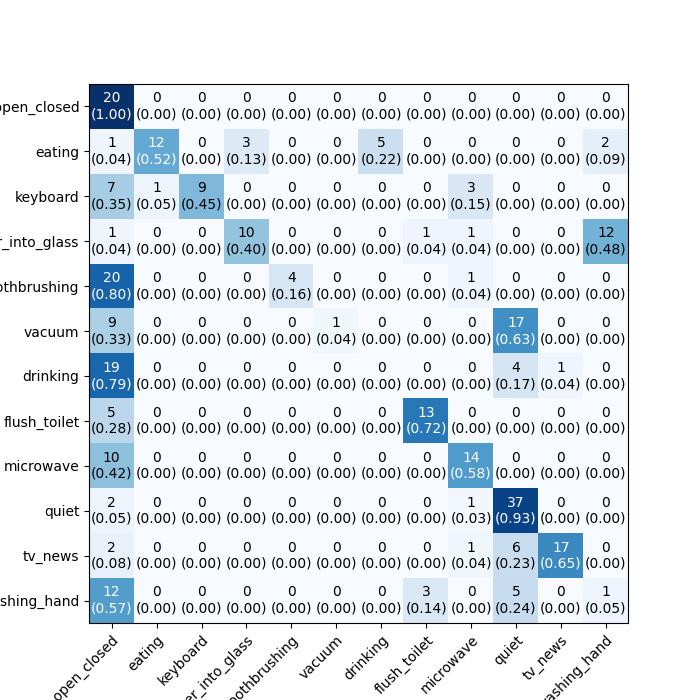
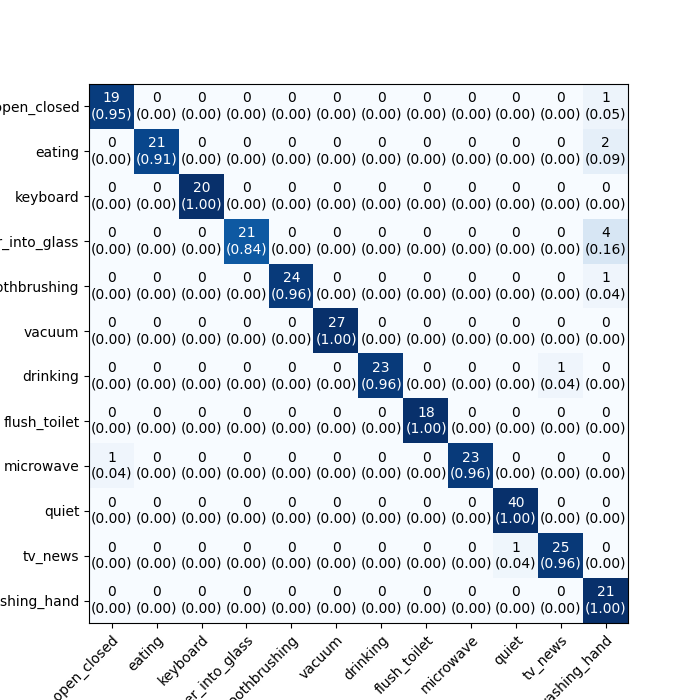
Quantization aware training

diff --git a/TinyML/room_sound/ascc_room_sound_activity_train_converter.py b/TinyML/room_sound/ascc_room_sound_activity_train_converter.py
@@ -1,0 +1,246 @@
+# -*- coding: utf-8 -*-
+"""
+@author: Fei Liang
+
+@Reference: github: https://github.com/JasonZhang156/Sound-Recognition-Tutorial
+
+tensorboard --logdir="./log/foldone_second"
+
+"""
+
+from keras.callbacks import TensorBoard, ModelCheckpoint, LearningRateScheduler
+import tensorflow as tf
+import keras.backend as K
+from keras import optimizers
+
+import esc10_input
+import numpy as np
+import models
+import os
+
+import matplotlib.pyplot as plt
+
+def plot_learningCurve(history, epochs):
+    # Plot training & validation accuracy values
+    plt.figure()
+    epoch_range = range(1, epochs+1)
+    plt.plot(epoch_range, history.history['accuracy'])
+    plt.plot(epoch_range, history.history['val_accuracy'])
+    plt.title('Model accuracy')
+    plt.ylabel('Accuracy')
+    plt.xlabel('Epoch')
+    plt.legend(['Train', 'Val'], loc='upper left')
+    plt.show()
+    plt.savefig("accuracy.png")
+
+    # Plot training & validation loss values
+    plt.figure()
+    plt.plot(epoch_range, history.history['loss'])
+    plt.plot(epoch_range, history.history['val_loss'])
+    plt.title('Model loss')
+    plt.ylabel('Loss')
+    plt.xlabel('Epoch')
+    plt.legend(['Train', 'Val'], loc='upper left')
+    plt.show()
+    plt.savefig("loss.png")
+
+
+def use_gpu():
+    """Configuration for GPU"""
+    # from keras.backend.tensorflow_backend import set_session
+    # from tf.compat.v1.keras.backend import set_session
+    # import tensorflow 
+    from tensorflow.compat.v1.keras.backend import set_session
+
+    os.environ['CUDA_VISIBLE_DEVICES'] = str(0)   # 使用第一台GPU
+    # config = tf.ConfigProto()
+    config = tf.compat.v1.ConfigProto()
+    # config.gpu_options.per_process_gpu_memory_fraction = 0.5  # GPU使用率为50%
+    config.gpu_options.allow_growth = True    # 允许容量增长
+    set_session(tf.compat.v1.InteractiveSession(config=config))
+
+
+def CNN_train(test_fold, feat):
+    """
+    Training CNN using extracted feature
+    :param test_fold: test fold of 5-fold cross validation
+    :param feat: which feature to use
+    """
+    # 学习率衰减策略，每20个epoch衰减一次，变为0.1倍。
+    def scheduler(epoch):
+        if epoch in [20, 40]:
+            lr = K.get_value(model.optimizer.lr)
+            K.set_value(model.optimizer.lr, lr * 0.1)
+            print("lr changed to {}".format(lr * 0.1))
+        return K.get_value(model.optimizer.lr)
+    
+    
+    # labels = ['door_open_closed', 'eating', 'keyboard', 'pouring_water_into_glass', 'vacuum', 'drinking', 'flush_toilet', 'quiet', 'tv_news', 'washing_hand']
+    labels = ['door_open_closed', 'eating', 'keyboard', 'pouring_water_into_glass', 'toothbrushing', 'vacuum', 'drinking', 'flush_toilet', 'microwave', 'quiet', 'tv_news', 'washing_hand']
+    num_class = 12
+
+
+    # 读取特征数据
+    # total sample:  2324
+    # train_feats: (1855, 64, 138)
+    # test_feat: (469, 64, 138)
+    # test_labes: (469,)
+    # train_features, train_labels, test_features, test_labels = esc10_input.get_data(test_fold, feat)
+    # ob_folder = '/home/ascc/LF_Workspace/Motion-Trigered-Activity/Sound-Recognition-Tutorial/data/ascc_activity_1second/feature/ascc_logmel_total.npz' # acc:0.9396
+    # ob_folder = '/home/ascc/LF_Workspace/Bayes_model/ADL_HMM_BAYES_V2/ADL_HMM_BAYES/room_sound/sound_dataset/ascc_activity_1second/feature/ascc_logmel_total.npz'
+    ob_folder = '/home/ascc/LF_Workspace/Bayes_model/Product_ADL/ADL_HMM_BAYES/room_sound/sound_dataset/ascc_activity_1second/feature/ascc_logmel_total.npz'
+    train_features, train_labels, test_features, test_labels = esc10_input.get_data_all(ob_folder, feat, number_class=num_class)
+
+    print('train_labels: ',train_labels.shape)
+
+    train_features_subset = train_features[0:int(train_features.shape[0]/5)]
+    train_labels_subset = train_labels[0:int(train_features.shape[0]/5)]
+
+    print("convert feature mode:", train_features_subset.shape)
+    print("convert lables mode:", train_labels_subset.shape)
+
+
+    # exit(0)
+    # # 一些超参的配置
+    # epoch = 70
+    # batch_size = 128
+    # input_shape = (64, 138, 1)
+
+    # # 构建CNN模型
+    # model = models.CNN(input_shape, num_class)
+
+    # # 回调函数
+    # reduce_lr = LearningRateScheduler(scheduler)   # 学习率衰减
+    # logs = TensorBoard(log_dir='./log/fold{}/'.format(test_fold))   # 保存模型训练日志
+    # checkpoint = ModelCheckpoint('./saved_model/cnn_{}_fold{}_best.h5'.format(feat, test_fold),  # 保存在验证集上性能最好的模型
+    #                              monitor='val_acc', verbose=1, save_best_only=True, mode='max', period=1)
+    # # 训练模型
+    # # model.fit(train_features, train_labels, batch_size=batch_size, nb_epoch=epoch, verbose=1, validation_split=0.1,
+    # #           callbacks=[checkpoint, reduce_lr, logs])
+    # history = model.fit(train_features, train_labels, batch_size=batch_size, epochs=epoch, verbose=1, validation_split=0.1,
+    #           callbacks=[checkpoint, reduce_lr, logs])
+
+    # plot_learningCurve(history, epoch)
+
+
+    # # confusion matrix
+    # from mlxtend.plotting import plot_confusion_matrix
+    # from sklearn.metrics import confusion_matrix
+
+    # # y_pred = model.predict_classes(X_test)
+
+    # # print('X_test:', X_test)
+
+    # predict_x=model.predict(test_features) 
+    # y_pred=np.argmax(predict_x,axis=1)
+    # print('y_pred len:', len(y_pred))
+    # print('y_pred:', y_pred)
+    # print('test_labels:', len(test_labels))
+
+    # print('test_labels:', test_labels)
+    # test_rounded_labels=np.argmax(test_labels, axis=1)
+    # print('test_rounded_labels:', test_rounded_labels)
+
+    # plt.figure()
+    # mat = confusion_matrix(test_rounded_labels, y_pred)
+    # cm = plot_confusion_matrix(conf_mat=mat, show_normed=True, figsize=(7,7))
+    
+    # # import seaborn as sns
+    # # ax = plt.subplot()
+    # # sns.set(font_scale=3.0) # Adjust to fit
+    # # sns.heatmap(cm, annot=True, ax=ax, cmap="Blues", fmt="g");  
+
+    # plt.show()
+    # plt.savefig("cm_sound.png")
+
+    # plt.figure()
+    # mat = confusion_matrix(test_rounded_labels, y_pred)
+    # cm = plot_confusion_matrix(conf_mat=mat, class_names=labels, show_normed=True, figsize=(7,7))
+    
+    # # import seaborn as sns
+    # # ax = plt.subplot()
+    # # sns.set(font_scale=3.0) # Adjust to fit
+    # # sns.heatmap(cm, annot=True, ax=ax, cmap="Blues", fmt="g");  
+
+    # plt.show()
+    # plt.savefig("cm_sound1.png")
+
+
+    # 保存模型
+    # model.save('./saved_model/cnn_{}_fold{}.h5'.format(feat, test_fold))
+    # MODEL_SAVED_PATH = 'sound-saved-model'
+    # # model.save_weights('model.h5')
+    # model.save(MODEL_SAVED_PATH)
+
+    # 输出训练好的模型在测试集上的表现
+    # score = model.evaluate(test_features, test_labels)
+    # print('Test score:', score[0])
+    # print('Test accuracy:', score[1])
+
+    ###############################################################################33
+    # Quantization aware training example
+    import tensorflow_model_optimization as tfmot
+
+
+    from keras.models import load_model
+    # MODEL_SAVED_PATH = 'saved-model_onlinedataset'
+
+    # ml = load_model(MODEL_SAVED_PATH)
+
+    model = load_model('./saved_model/cnn_logmel_foldone_second.h5')
+    print("Load model successfully")
+
+    quantize_model = tfmot.quantization.keras.quantize_model
+
+    # q_aware stands for for quantization aware.
+    q_aware_model = quantize_model(model)
+
+
+    sgd = optimizers.gradient_descent_v2.SGD(lr=0.01, momentum=0.9, nesterov=True)  # 优化器为SGD
+
+    # `quantize_model` requires a recompile.
+    q_aware_model.compile(optimizer=sgd,
+                loss="categorical_crossentropy",
+                metrics=['accuracy'])
+
+    q_aware_model.summary()
+
+
+    train_features_subset = train_features[0:int(train_features.shape[0]/1)]
+    train_labels_subset = train_labels[0:int(train_features.shape[0]/1)]
+
+    q_aware_model.fit(train_features_subset, train_labels_subset,
+                    batch_size=128, epochs=20, validation_split=0.1)
+
+
+    converter = tf.lite.TFLiteConverter.from_keras_model(q_aware_model)
+    converter.optimizations = [tf.lite.Optimize.DEFAULT]
+
+    quantized_tflite_model = converter.convert()
+
+    # Save the model.
+    res_model = 'sound_default_model.tflite'
+    with open(res_model, 'wb') as f:
+        f.write(quantized_tflite_model)
+
+
+    return 0
+
+
+if __name__ == '__main__':
+    use_gpu()  # 使用GPU
+    dict_acc = {}  # results of each fold
+    # 5-fold cross validation
+    print('### [Start] Test model for ESC10 dataset #####')
+    # for fold in [1, 2, 3, 4, 5]:
+    #     print("## Start test fold{} model #####".format(fold))
+    #     acc = CNN_train(fold, 'logmel')
+    #     dict_acc['fold{}'.format(fold)] = acc
+    #     print("## Finish test fold{} model #####".format(fold))
+    # dict_acc['mean'] = np.mean(list(dict_acc.values()))
+    # print(dict_acc)
+    # print('### [Finish] Test model finished for ESC10 dataset #####')
+
+    fold = 'one_second'
+    acc = CNN_train(fold, 'logmel')
+    print('acc: ',acc)
